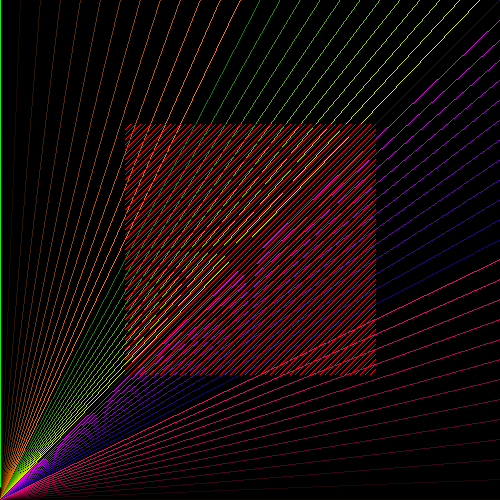
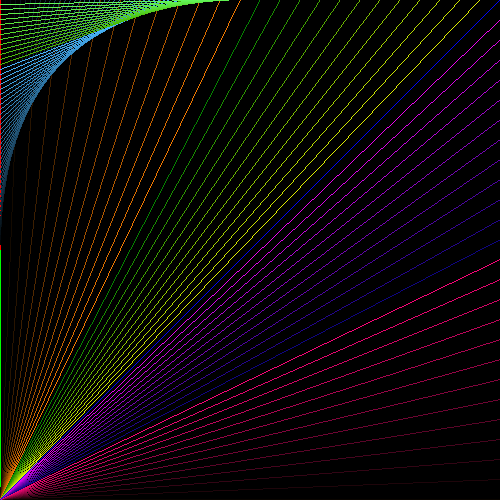
some picture with curves

Changed region(s): [[0.24, 0.24, 0.75, 0.75], [0.0, 0.0, 0.42, 0.45]]

diff --git a/main.c b/main.c
@@ -1,6 +1,7 @@
 #include <stdio.h>
 #include <stdlib.h>
 #include <string.h>
+#include <math.h>
 
 #include "ml6.h"
 #include "display.h"
@@ -33,15 +34,23 @@ int main() {
   }
 
 
+
   c.red = MAX_COLOR;
   c.green = 0;
   c.blue = 0;
 
-  int x, y;
-  for (x=XRES/4;x<XRES*3/4;x+=5){
-    for (y=YRES/4;y<YRES*3/4;y+=5){
-      draw_line(x+5, y+5, x, y, s, c);
-    }
+  int x0, y0, x1, y1;
+  x0 = 0;
+  y0 = YRES/2;
+  x1 = 0;
+  y1 = YRES;
+  while(y0<=YRES){
+    draw_line(x0, y0, x1, y1, s, c);
+    y0+=5;
+    x1+=5;
+    c.red = (c.red+2)%255;
+    c.blue = (c.blue+7)%255;
+    c.green = (c.green+5)%255;
   }
   
 
